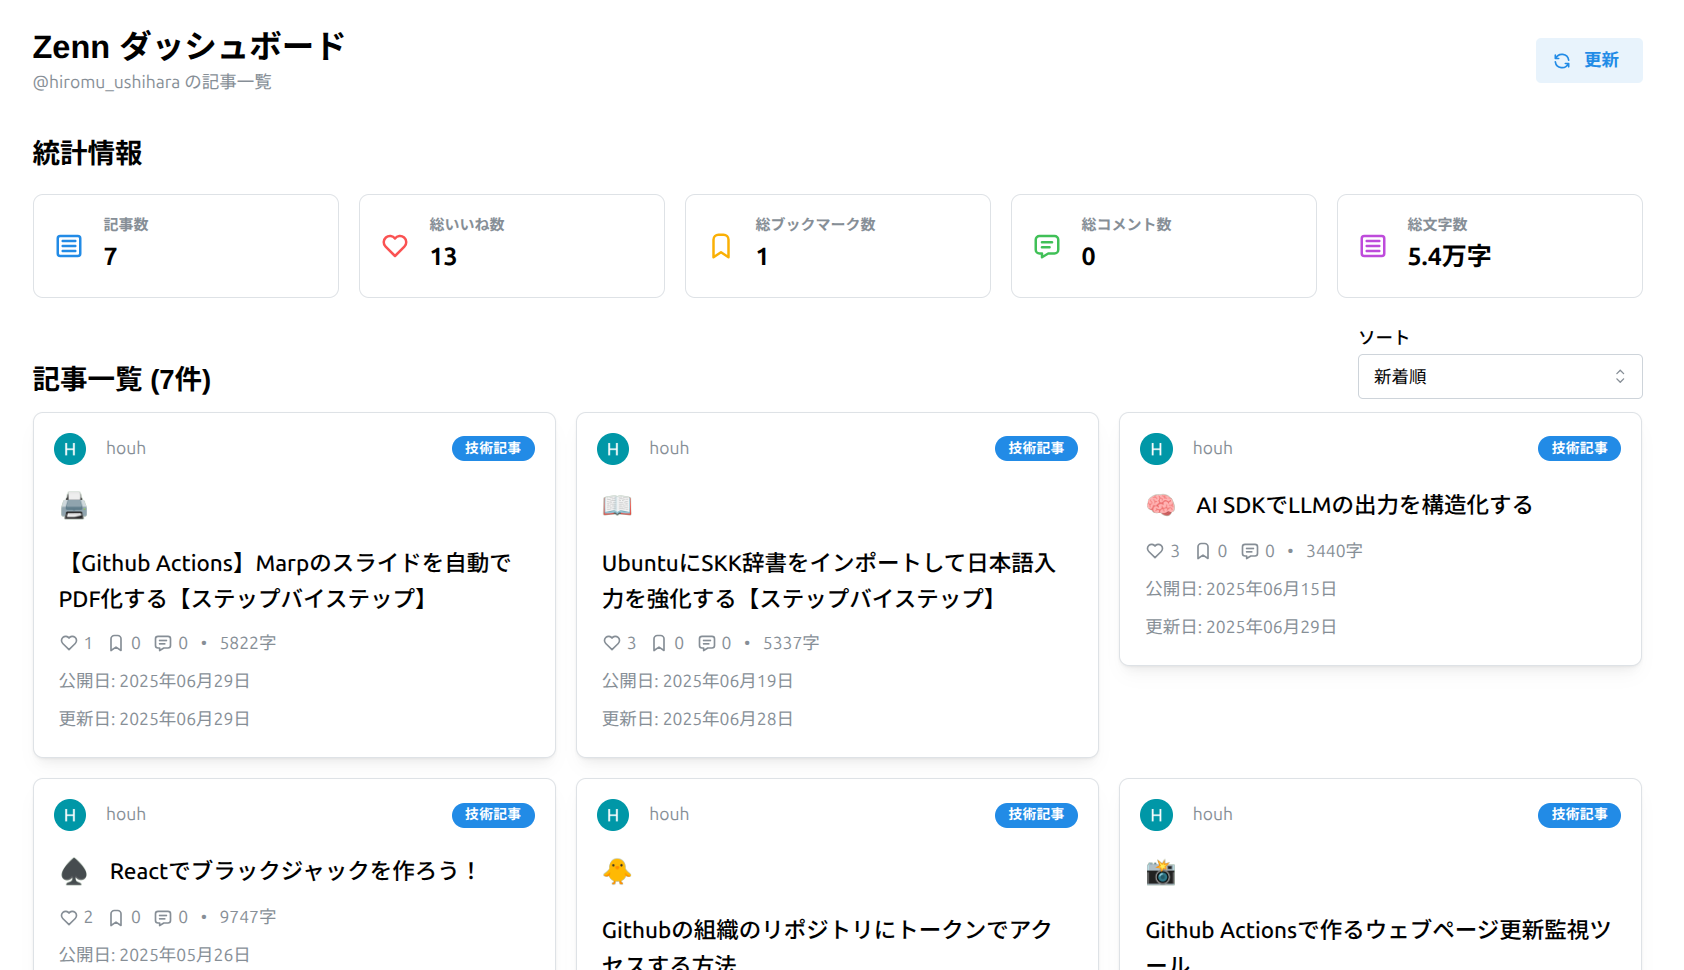
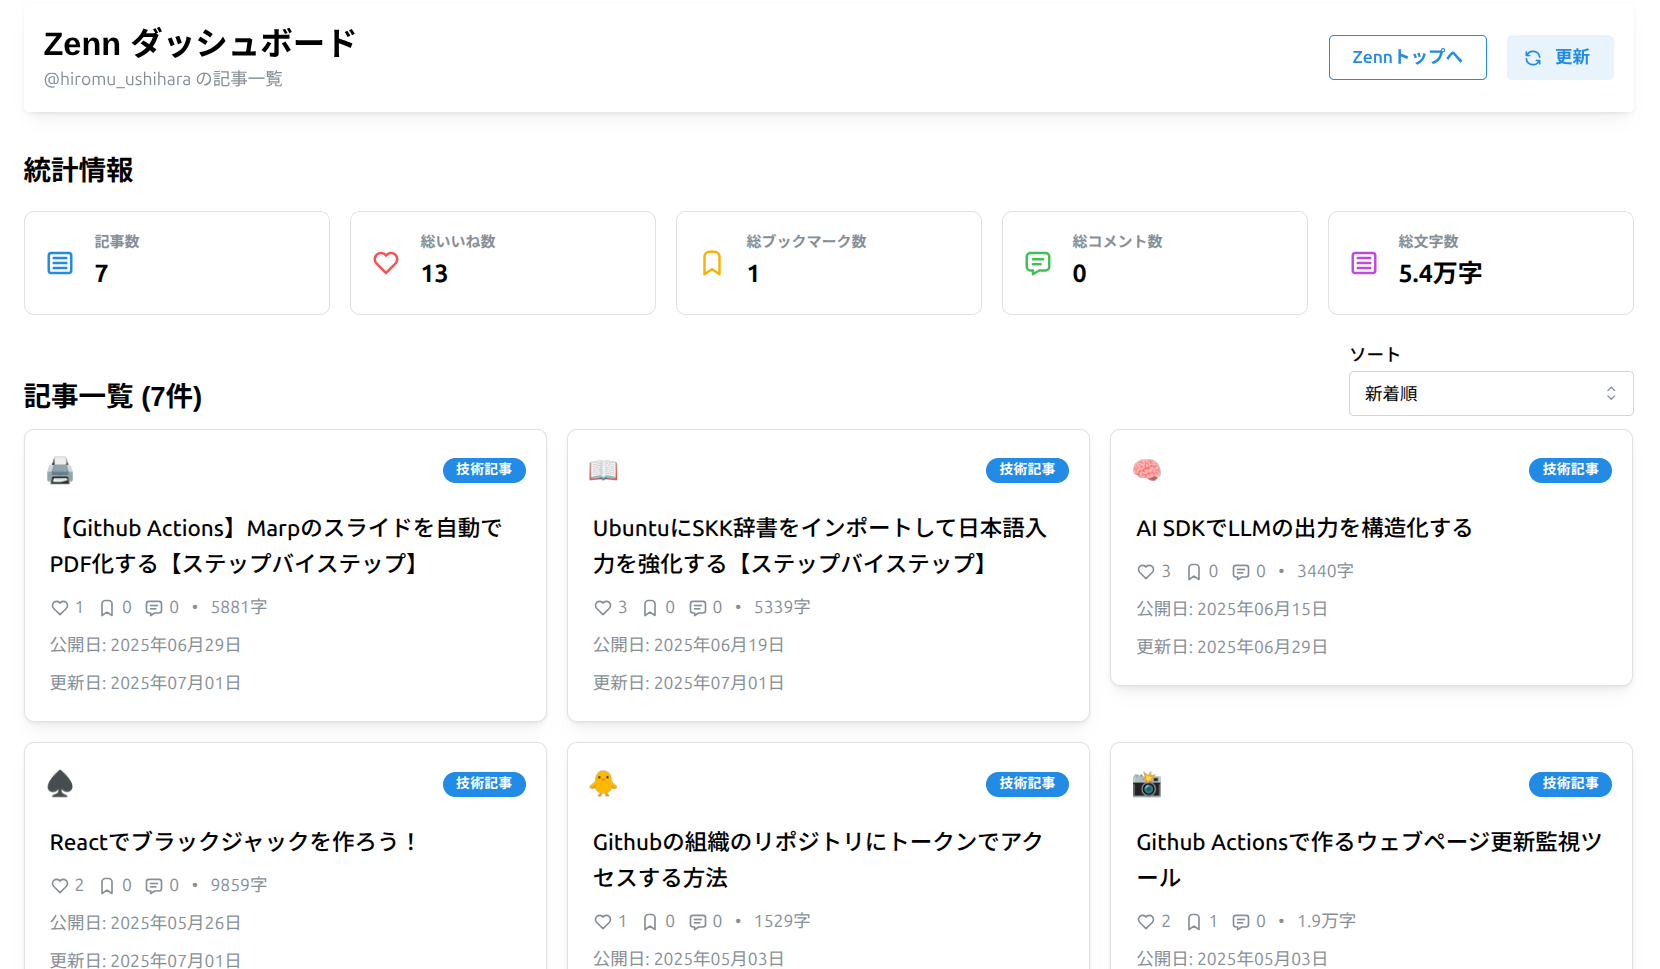
ArticleCardコンポーネントのユーザー情報表示をコメントアウトし、絵文字の表示を追加しました。また、タイトル表示のスタイルを調整しました。

diff --git a/src/components/ArticleCard.tsx b/src/components/ArticleCard.tsx
@@ -28,10 +28,11 @@ export function ArticleCard({ article }: ArticleCardProps) {
         <Card.Section>
           <Group justify="space-between" p="md">
             <Group>
-              <Avatar src={article.user.avatar_small_url} size="sm" />
+              {/* <Avatar src={article.user.avatar_small_url} size="sm" />
               <Text size="sm" c="dimmed">
                 {article.user.name}
-              </Text>
+              </Text> */}
+              <Text size="xl">{article.emoji}</Text>
             </Group>
             <Badge color={article.article_type === 'tech' ? 'blue' : 'green'}>
               {article.article_type === 'tech' ? '技術記事' : 'アイデア'}
@@ -41,7 +42,7 @@ export function ArticleCard({ article }: ArticleCardProps) {
 
         <Stack gap="xs">
           <Group>
-            <Text size="xl">{article.emoji}</Text>
+            
             <Text fw={500} size="lg" lineClamp={2}>
               {article.title}
             </Text>
